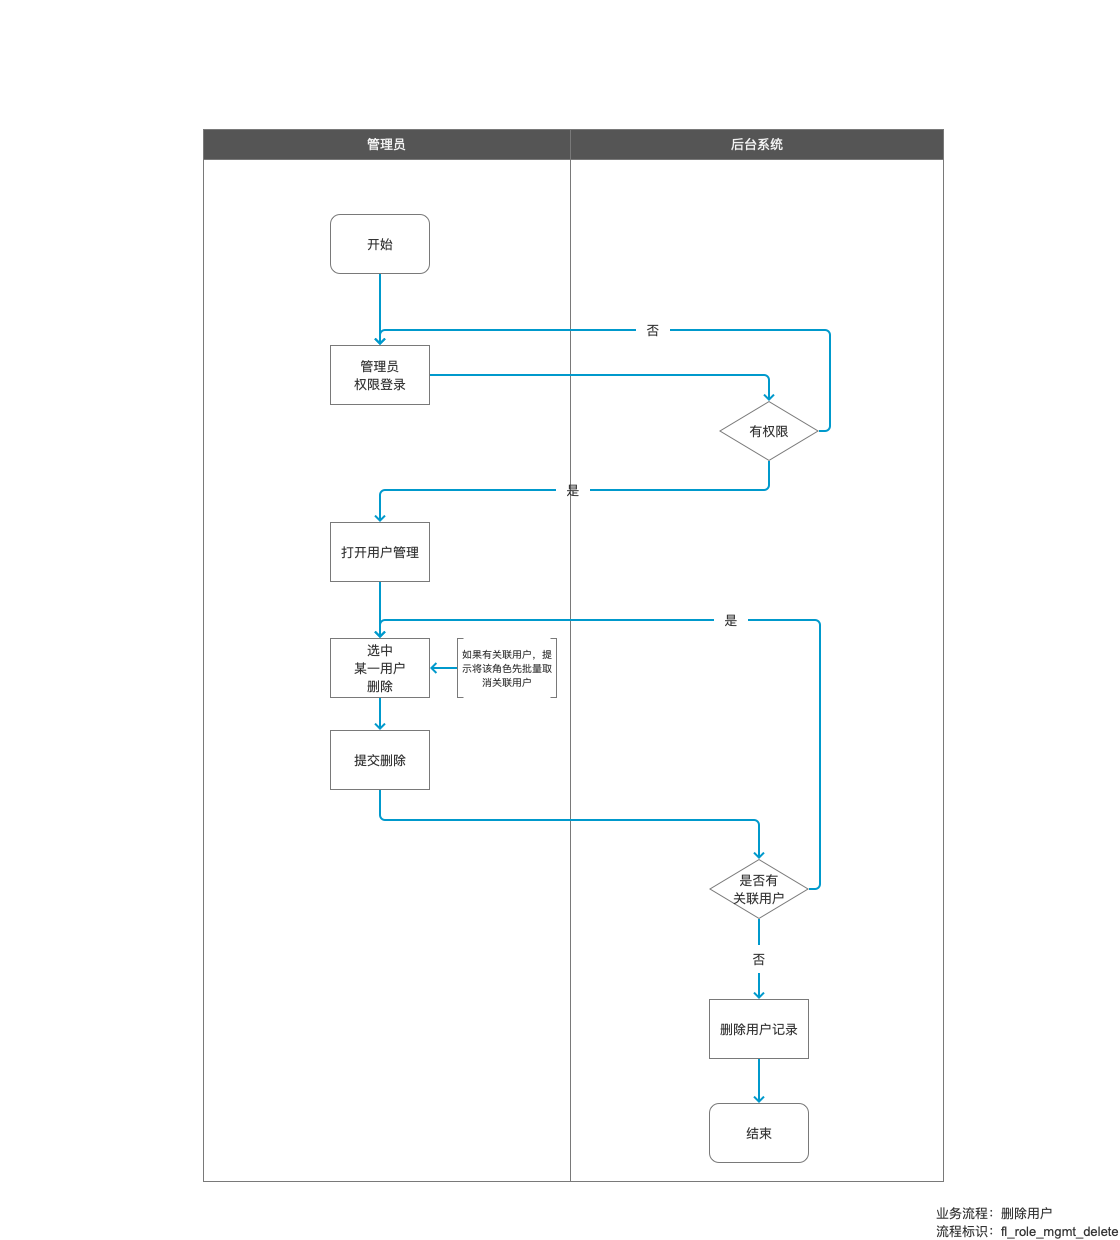
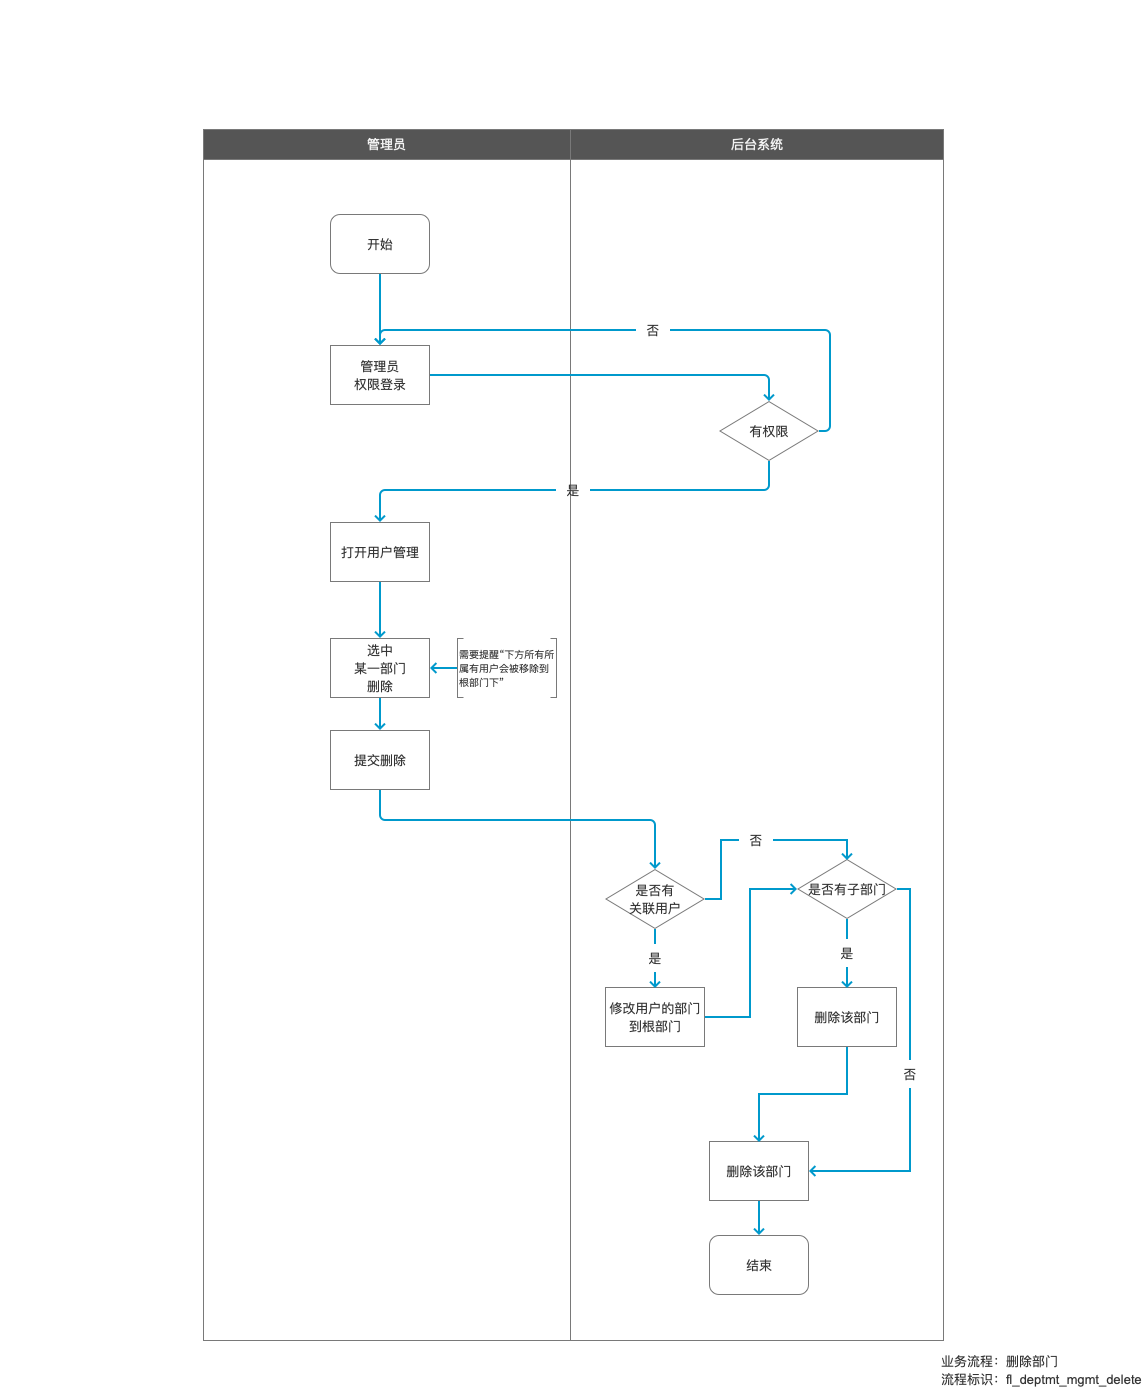
feat(prd): department delete

diff --git a/docs/zh/v1/product/design/prd/system/organization/department/delete.md b/docs/zh/v1/product/design/prd/system/organization/department/delete.md
@@ -10,14 +10,17 @@ description: 删除部门的功能描述
 
 ## 用例
 
+![](../../../../images/uc_deptmt_mgmt_delete.png)
 
 ## 用例描述
 
-
+![](../../../../images/uc_desc_deptmt_mgmt_delete.png)
 
 
 ## 流程图
 
+![](../../../../images/fl_deptmt_mgmt_delete.png)
 
 ## 原型图
 
+![](../../../../images/pt_deptmt_mgmt_delete.png)
